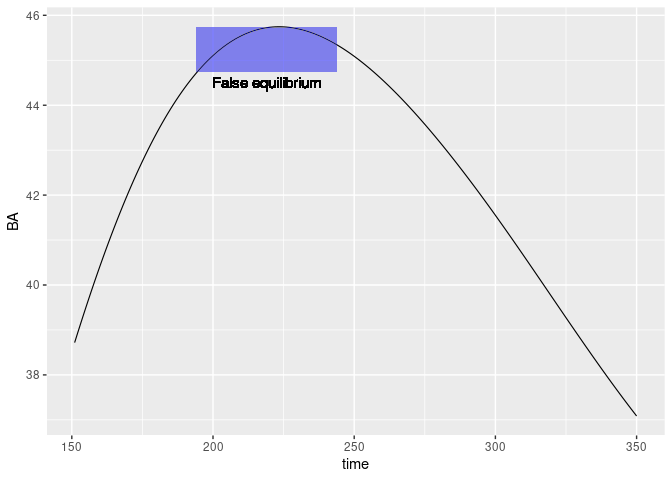
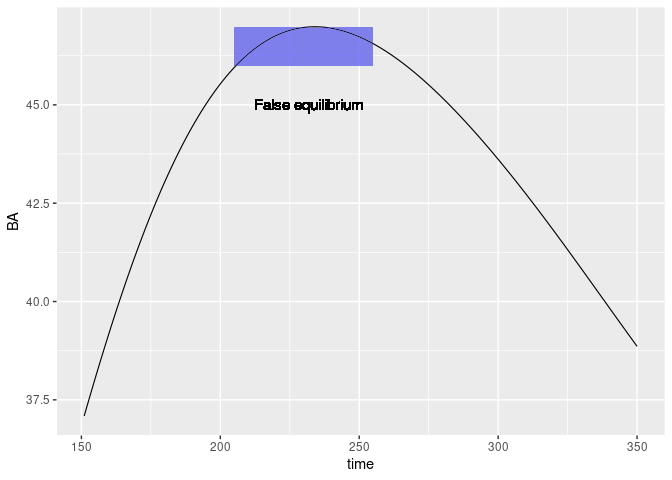
Allow to remove delay. Edit NEWS.md
Now we can remove delay to a previously delayed IPM if needed. This is
because now the default IPM comes with a delay value.

Tests have been edited to check all of this.

diff --git a/vignettes/matreex.md b/vignettes/matreex.md
@@ -103,10 +103,10 @@ climate <- subset(climate_species, N == 2 & sp == "Picea_abies", select = -sp)
 # N == 2 is the optimum climate for the species. 
 # see ?climate_species for more info.
 climate
-#>        sgdd       wai        sgddb      waib      wai2   sgdd2      PC1
-#> 62 1444.667 0.4519387 0.0006922012 0.6887343 0.2042486 2087062 1.671498
-#>           PC2 N       SDM
-#> 62 0.02602064 2 0.6760556
+#>        sgdd       wai        sgddb      waib      wai2   sgdd2      PC1        PC2 N
+#> 62 1444.667 0.4519387 0.0006922012 0.6887343 0.2042486 2087062 1.671498 0.02602064 2
+#>          SDM
+#> 62 0.6760556
 
 Picea_ipm <- make_IPM(
     species = "Picea_abies", 
@@ -121,7 +121,7 @@ Picea_ipm <- make_IPM(
 #> GL integration occur on 32 cells
 #> midbin integration occur on 25 cells
 #> Loop done.
-#> Time difference of 44 secs
+#> Time difference of 34.5 secs
 ```
 
 Once the IPM is integrated on a BA range, we can use it to build a
@@ -186,9 +186,9 @@ Picea_sim <- sim_deter_forest(
     verbose = TRUE
 )
 #> Starting while loop. Maximum t = 300
-#> Simulation ended after time 244
-#> BA stabilized at 45.30 with diff of 0.96 at time 244
-#> Time difference of 1.09 secs
+#> Simulation ended after time 255
+#> BA stabilized at 46.52 with diff of 0.96 at time 255
+#> Time difference of 1.18 secs
 ```
 
 In the code above, we simulate for 200 years (`tlim`) years and past
@@ -252,12 +252,12 @@ head(Picea_sim)
 #> # A tibble: 6 × 7
 #>   species     var    time  mesh  size equil value
 #>   <chr>       <chr> <dbl> <dbl> <dbl> <lgl> <dbl>
-#> 1 Picea_abies n         1     1  90.8 FALSE  0   
-#> 2 Picea_abies n         2     1  90.8 FALSE  2.19
-#> 3 Picea_abies n         3     1  90.8 FALSE  2.67
-#> 4 Picea_abies n         4     1  90.8 FALSE  2.78
-#> 5 Picea_abies n         5     1  90.8 FALSE  2.82
-#> 6 Picea_abies n         6     1  90.8 FALSE  2.84
+#> 1 Picea_abies n         1     1     0 FALSE  0   
+#> 2 Picea_abies n         2     1     0 FALSE  2.19
+#> 3 Picea_abies n         3     1     0 FALSE  2.20
+#> 4 Picea_abies n         4     1     0 FALSE  2.22
+#> 5 Picea_abies n         5     1     0 FALSE  2.24
+#> 6 Picea_abies n         6     1     0 FALSE  2.26
 
 # get the maximum time
 max_t <- max(Picea_sim$time)
@@ -309,9 +309,9 @@ Picea_sim_k <- sim_deter_forest(
     verbose = TRUE
 )
 #> Starting while loop. Maximum t = 300
-#> Simulation ended after time 282
-#> BA stabilized at 34.10 with diff of 0.96 at time 282
-#> Time difference of 1.4 secs
+#> Simulation ended after time 300
+#> BA stabilized at 33.24 with diff of 1.48 at time 300
+#> Time difference of 1.38 secs
 
 Picea_sim_k  %>%
     dplyr::filter(var == "BAsp", ! equil) %>%
@@ -320,10 +320,10 @@ Picea_sim_k  %>%
     dplyr::mutate(time = time + 150) %>% 
     ggplot(aes(x = time, y = value)) +
     geom_line(linewidth = .4) + ylab("BA") +
-    geom_rect(mapping = aes(xmin = 194, xmax = 244, 
+    geom_rect(mapping = aes(xmin = 205, xmax = 255, 
                                      ymin = max(value-1), ymax = max(value)),
                        alpha = 0.002, fill = "blue") +
-    geom_text(aes(label = "False equilibrium", x = 219, y = 44.5), size = 4) 
+    geom_text(aes(label = "False equilibrium", x = 232, y = 45), size = 4) 
 ```
 
 ![](matreex_files/figure-gfm/sp1initk-1.png)<!-- -->
@@ -336,9 +336,12 @@ for a tree to recruit up to $L$, we can modify a species by adding a
 delay for recruitment of new individuals. By default, the recruitment is
 a given number of new individuals. This number is split in half and adds
 to the first two class of size distribution. Adding delay expand the IPM
-with n_delay age based classes to represent the year its takes (here 5
+with `n_delay` age based classes to represent the year its takes (here 5
 years) to grow up to $L$. The new recruit will age from one age class to
 another until they enter the size-based IPM.
+
+A default delay is used by `build_IPM()` for each species. These values
+are computed from regressions.
 
 ``` r
 n_delay <- 5
@@ -361,8 +364,8 @@ Picea_sim_d5 <- sim_deter_forest(
 )
 #> Starting while loop. Maximum t = 200
 #> Simulation ended after time 200
-#> BA stabilized at 45.19 with diff of 7.20 at time 200
-#> Time difference of 1.03 secs
+#> BA stabilized at 45.59 with diff of 9.40 at time 200
+#> Time difference of 0.924 secs
 ```
 
 Equilibrium BA should be really close with or without delay
@@ -411,7 +414,7 @@ Abies_ipm <- make_IPM(
 #> GL integration occur on 24 cells
 #> midbin integration occur on 25 cells
 #> Loop done.
-#> Time difference of 28.3 secs
+#> Time difference of 23.8 secs
 Abies_sp <- species(IPM = Abies_ipm, init_pop = def_initBA(35))
 ```
 
@@ -429,10 +432,10 @@ Picea_Abies_sim <- sim_deter_forest(
     verbose = TRUE
 )
 #> Starting while loop. Maximum t = 500
-#> time 500 | BA diff : 0.08
+#> time 500 | BA diff : 1.07
 #> Simulation ended after time 500
-#> BA stabilized at 50.79 with diff of 0.08 at time 500
-#> Time difference of 3.97 secs
+#> BA stabilized at 49.30 with diff of 1.07 at time 500
+#> Time difference of 4.06 secs
 
 Picea_Abies_sim  %>%
     dplyr::filter(var == "BAsp", ! equil) %>%

diff --git a/README.md b/README.md
@@ -2,10 +2,9 @@
 
 <!-- badges: start -->
 
-[![Lifecycle:
-experimental](https://img.shields.io/badge/lifecycle-experimental-orange.svg)](https://www.tidyverse.org/lifecycle/#experimental)
+[![Lifecycle: stable](https://img.shields.io/badge/lifecycle-stable-brightgreen.svg)](https://lifecycle.r-lib.org/articles/stages.html#stable)
+[![Project Status: Active – The project has reached a stable, usable state and is being actively developed.](https://www.repostatus.org/badges/latest/active.svg)](https://www.repostatus.org/#active)
 [![](https://img.shields.io/badge/devel%20version-0.2.0-blue.svg)](https://gitlab.com/gowachin/matreex)
-
 <!-- badges: end -->
 
 The goal of this package is to run integrated projection models of tree species in single or multi-specific density dependence context. The simulations return the size distribution dynamics along time. These models can be completed with different harvest and disturbance models and be runned untile equilibrium.

diff --git a/NEWS.md b/NEWS.md
@@ -1,8 +1,12 @@
 # matreex (development version)
 
+* IPM build with `make_IPM()` now use the default delay set for each species (see #10). Previous simulation used `delay = 0`.
+
+* `delay` now accept negative values, to remove a delay to any object.
+
 * `targetBA` argument of `sim_deter_forest()` is now required per hectare and not for the corresponding `SurEch`.
 
-* `sim_deter_forest()` output table changed the name for variable `m_i` (distribution of density by mesh i) for `n_i`. #8
+* `sim_deter_forest()` output table changed the name for variable `m_i` (distribution of density by mesh i) for `n_i`. #8.
 
 * Correction of vignettes 
 
